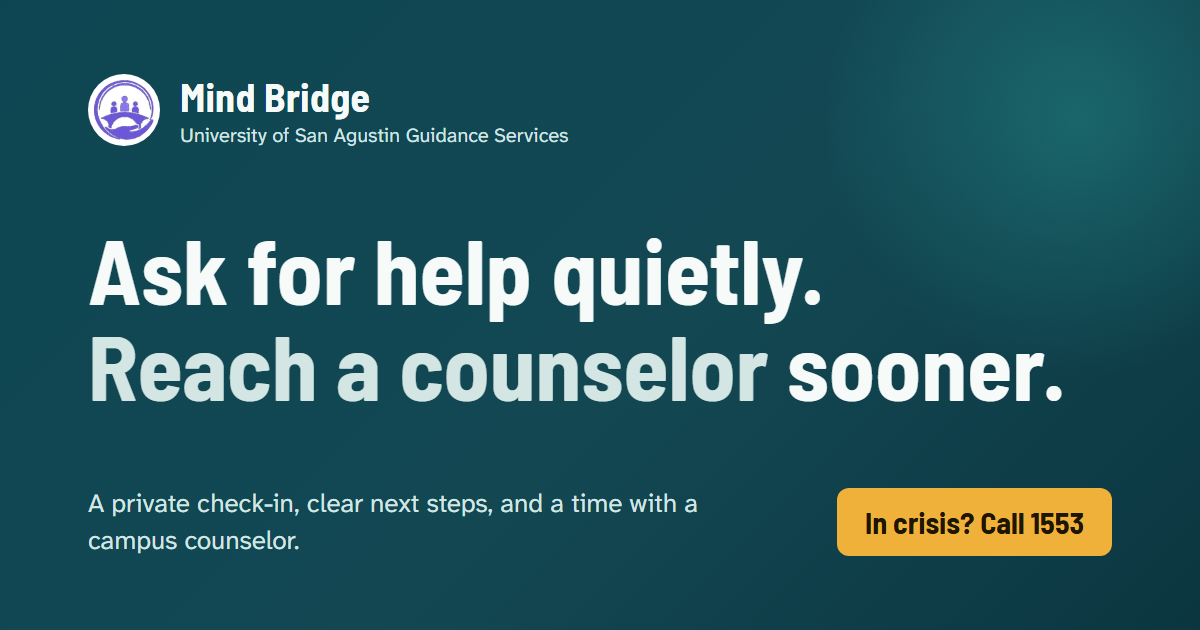
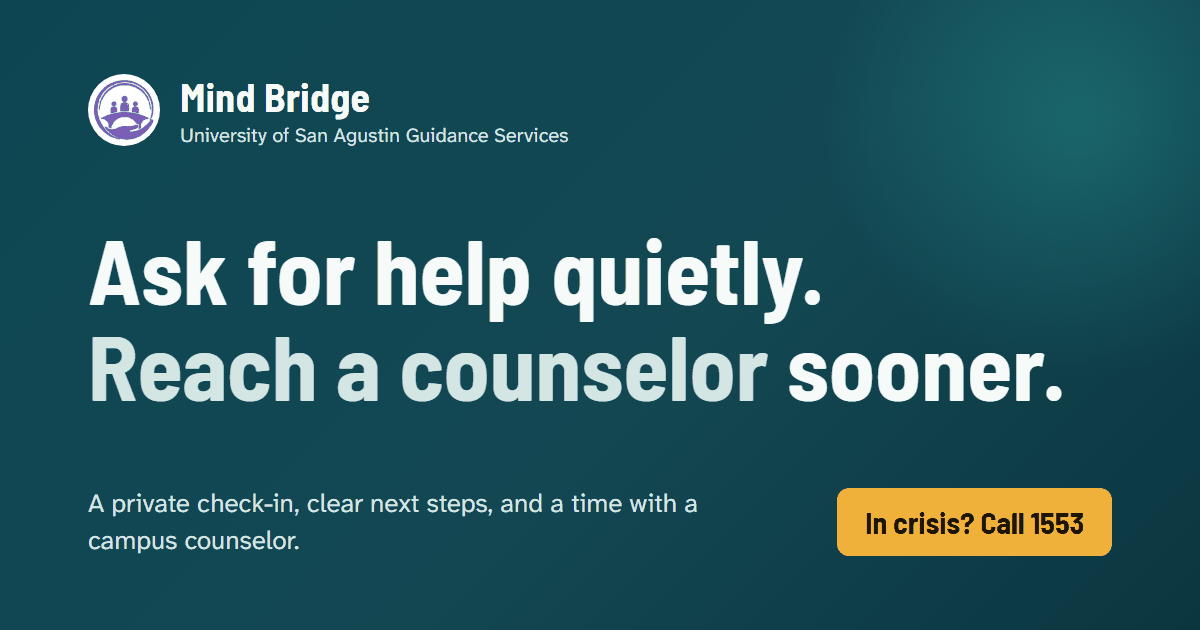
Footer phone is a tel: link, per-page meta descriptions, og-image 323 kB to 89 kB

diff --git a/client/src/utils/pageTitle.ts b/client/src/utils/pageTitle.ts
@@ -20,3 +20,21 @@ export function pageTitle(pathname: string): string {
   const title = Object.hasOwn(TITLES, trimmed) ? TITLES[trimmed] : "Page not found";
   return `${title} | ${SITE}`;
 }
+
+const DEFAULT_DESCRIPTION =
+  "A private wellness check-in for University of San Agustin students: see what your answers suggest, find crisis support, and book a time with a campus guidance counselor.";
+
+const DESCRIPTIONS: Readonly<Record<string, string>> = {
+  "/login": "Log in to Mind Bridge with your University of San Agustin account.",
+  "/signup": "Create a Mind Bridge account with your University of San Agustin email to start a private check-in.",
+  "/resources": "Free crisis hotlines and support services in the Philippines, open 24/7.",
+  "/privacy-policy": "How Mind Bridge collects, uses and protects your information.",
+  "/terms": "The terms for using Mind Bridge, the University of San Agustin guidance check-in app.",
+  "/cookie-policy": "How Mind Bridge uses cookies and local storage.",
+};
+
+/** Meta description for a route. Signed-in pages are private, so they share the generic site description. */
+export function pageDescription(pathname: string): string {
+  const trimmed = pathname.length > 1 ? pathname.replace(/\/+$/, "") : pathname;
+  return Object.hasOwn(DESCRIPTIONS, trimmed) ? DESCRIPTIONS[trimmed] : DEFAULT_DESCRIPTION;
+}

diff --git a/client/src/utils/pageTitle.test.ts b/client/src/utils/pageTitle.test.ts
@@ -1,5 +1,5 @@
 import { describe, it, expect } from "vitest";
-import { pageTitle } from "./pageTitle";
+import { pageDescription, pageTitle } from "./pageTitle";
 
 describe("pageTitle", () => {
   it("names the home page after the service", () => {
@@ -29,5 +29,14 @@ describe("pageTitle", () => {
     expect(pageTitle("/nope")).toBe("Page not found | Mind Bridge");
     expect(pageTitle("/constructor")).toBe("Page not found | Mind Bridge");
     expect(pageTitle("/__proto__")).toBe("Page not found | Mind Bridge");
+  });
+});
+
+describe("pageDescription", () => {
+  it("gives public pages their own description and falls back to the site one", () => {
+    expect(pageDescription("/login")).toMatch(/Log in/);
+    expect(pageDescription("/privacy-policy/")).toMatch(/protects/);
+    expect(pageDescription("/student/dashboard")).toBe(pageDescription("/"));
+    expect(pageDescription("/constructor")).toBe(pageDescription("/"));
   });
 });

diff --git a/client/src/App.tsx b/client/src/App.tsx
@@ -25,7 +25,7 @@ import ErrorBoundary from "./components/ui/ErrorBoundary";
 import PageLoader from "./components/ui/PageLoader";
 import PublicShell from "./components/ui/PublicShell";
 import type { UserRole } from "./types";
-import { pageTitle } from "./utils/pageTitle";
+import { pageDescription, pageTitle } from "./utils/pageTitle";
 
 function ProtectedRoute({ children, allowedRoles }: { children: ReactNode; allowedRoles?: UserRole[] }) {
   const { currentUser, userRole, accountStatus, loading, logout, refreshUserData } = useAuth();
@@ -80,6 +80,7 @@ export default function App() {
 
   useEffect(() => {
     document.title = pageTitle(location.pathname);
+    document.querySelector('meta[name="description"]')?.setAttribute("content", pageDescription(location.pathname));
   }, [location.pathname]);
 
   return (

diff --git a/client/src/components/ui/PublicShell.tsx b/client/src/components/ui/PublicShell.tsx
@@ -112,7 +112,11 @@ export default function PublicShell({ children, showAuthLinks = true, calm = fal
             <p className="font-bold text-[color:var(--mb-ink)]">University of San Agustin, Guidance Services</p>
             <p>General Luna Street, City Proper, Iloilo City 5000</p>
             <p>
-              Phone 0951 189 6559 ·{" "}
+              Phone{" "}
+              <a href="tel:+639511896559" className="text-[color:var(--mb-ink)]">
+                0951 189 6559
+              </a>{" "}
+              ·{" "}
               <a href="mailto:guidance@usa.edu.ph" className="text-[color:var(--mb-ink)]">
                 guidance@usa.edu.ph
               </a>
